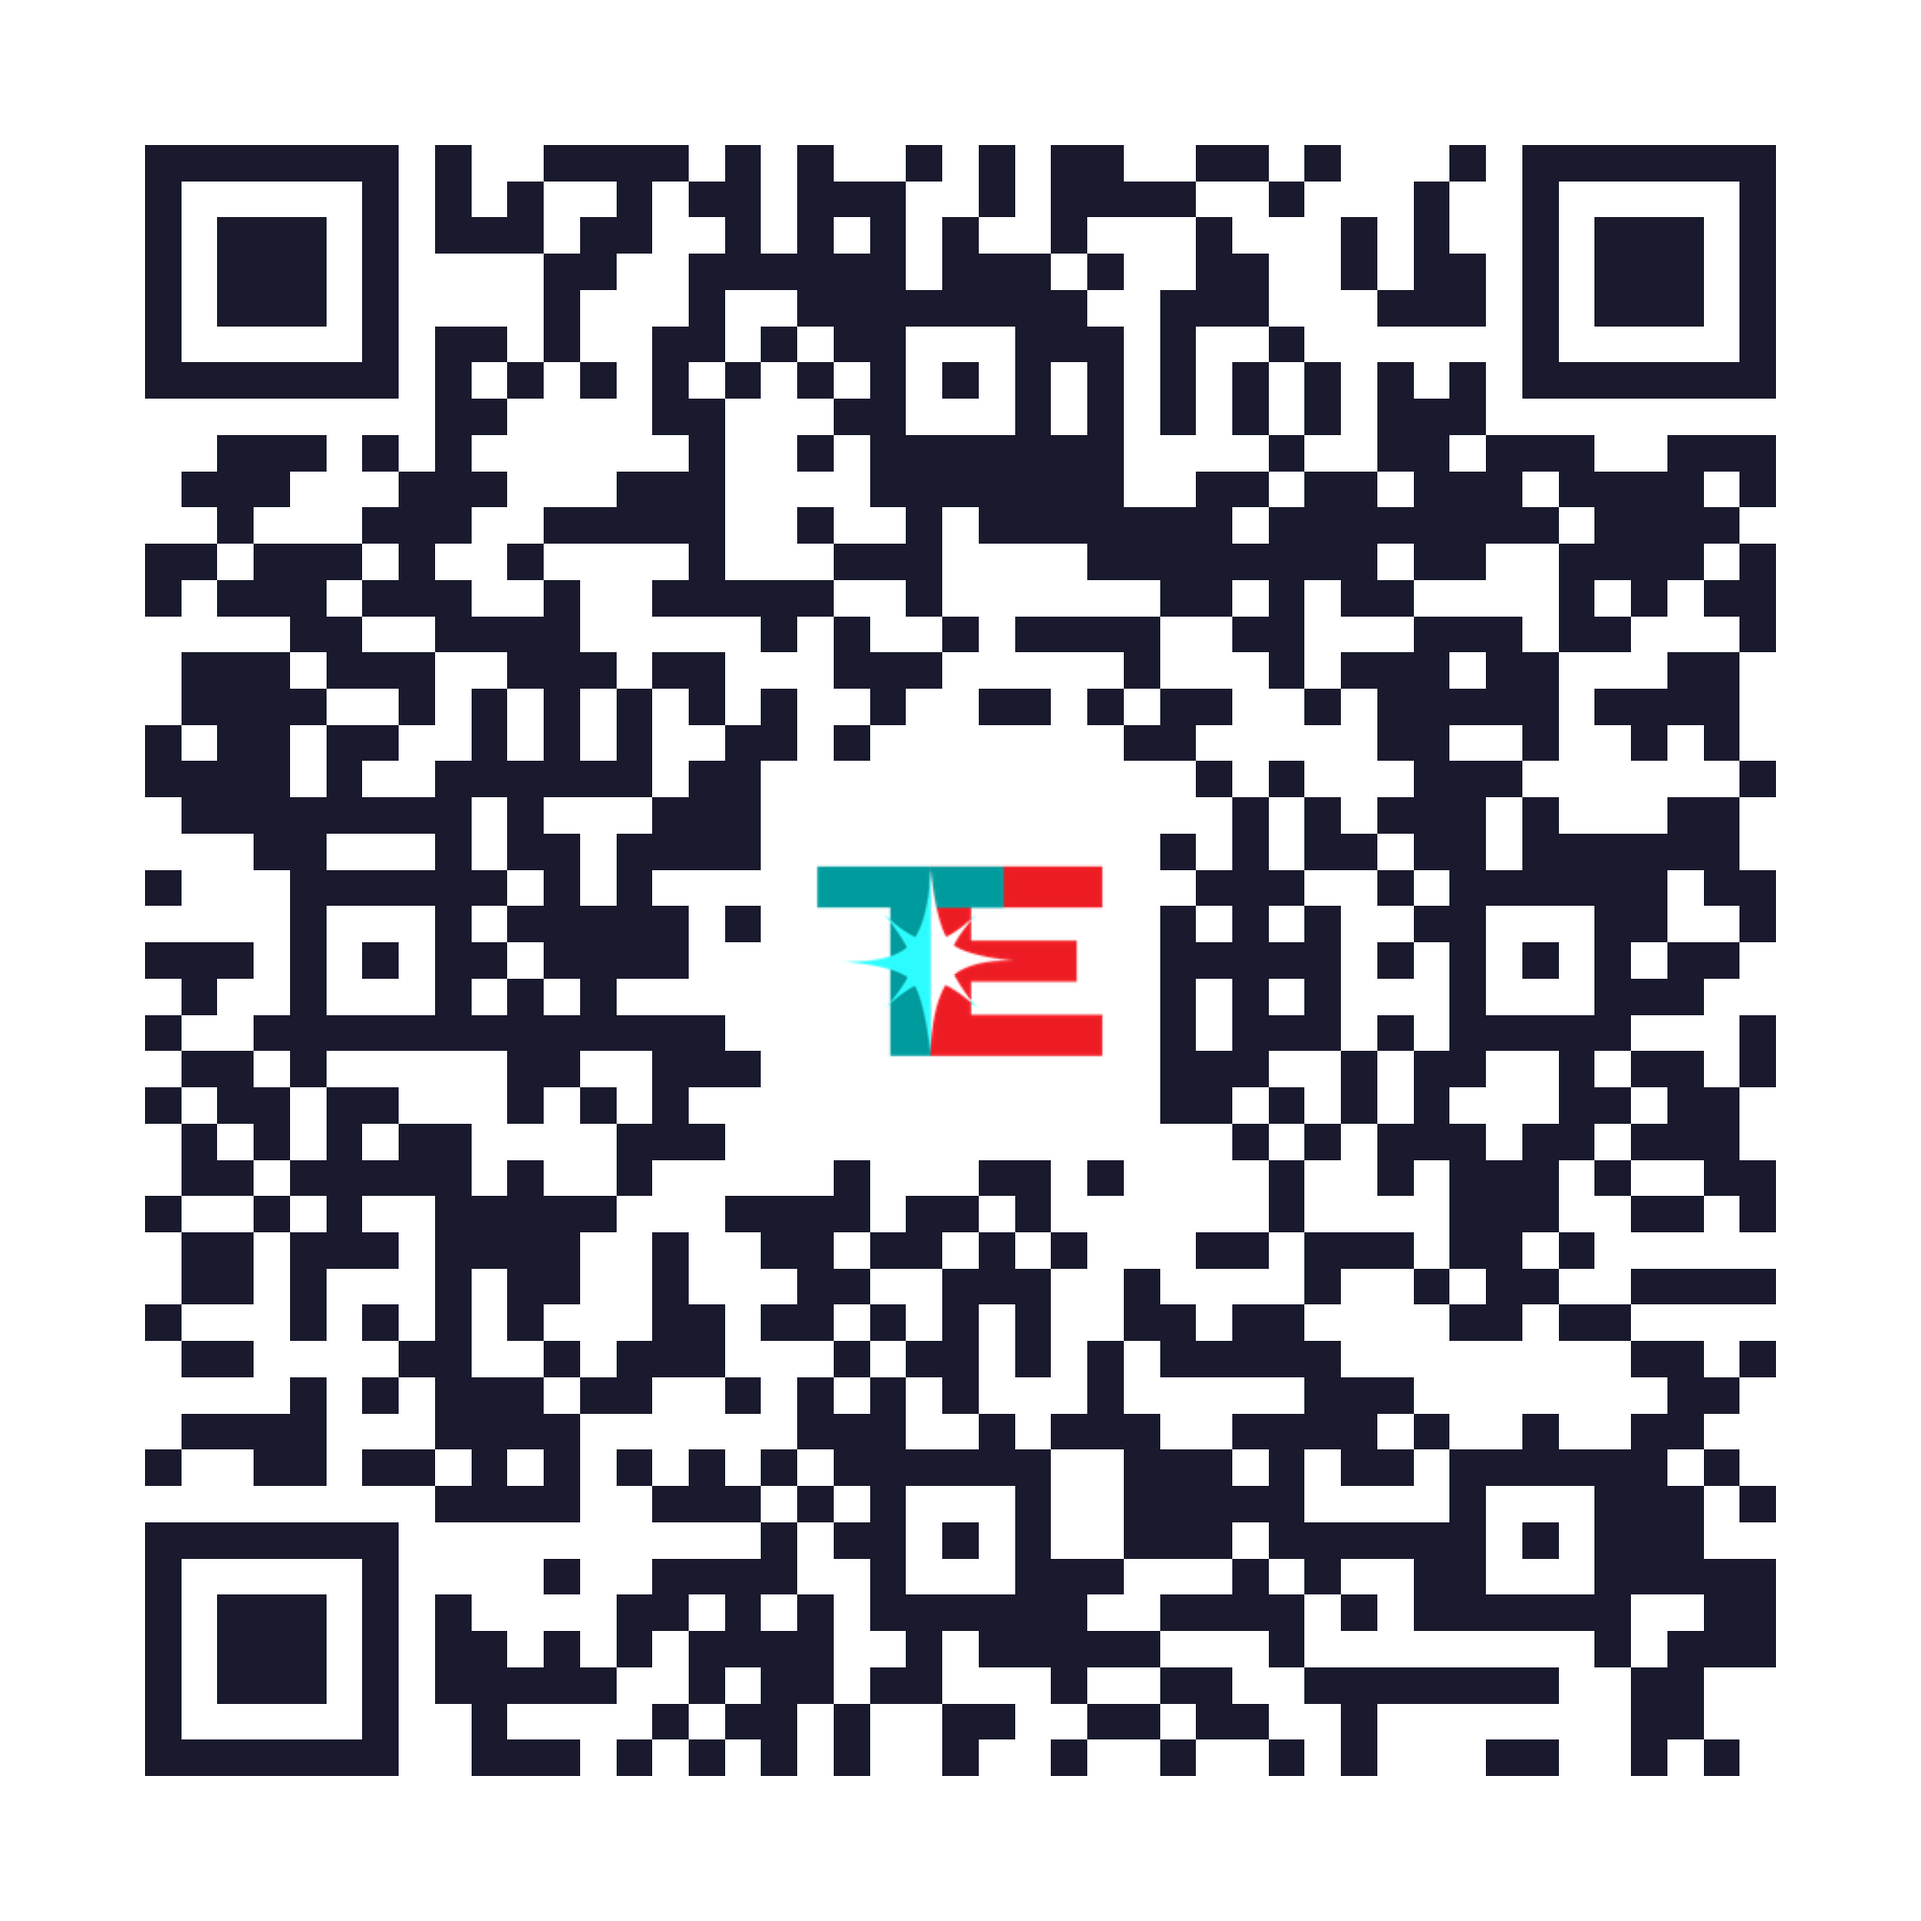
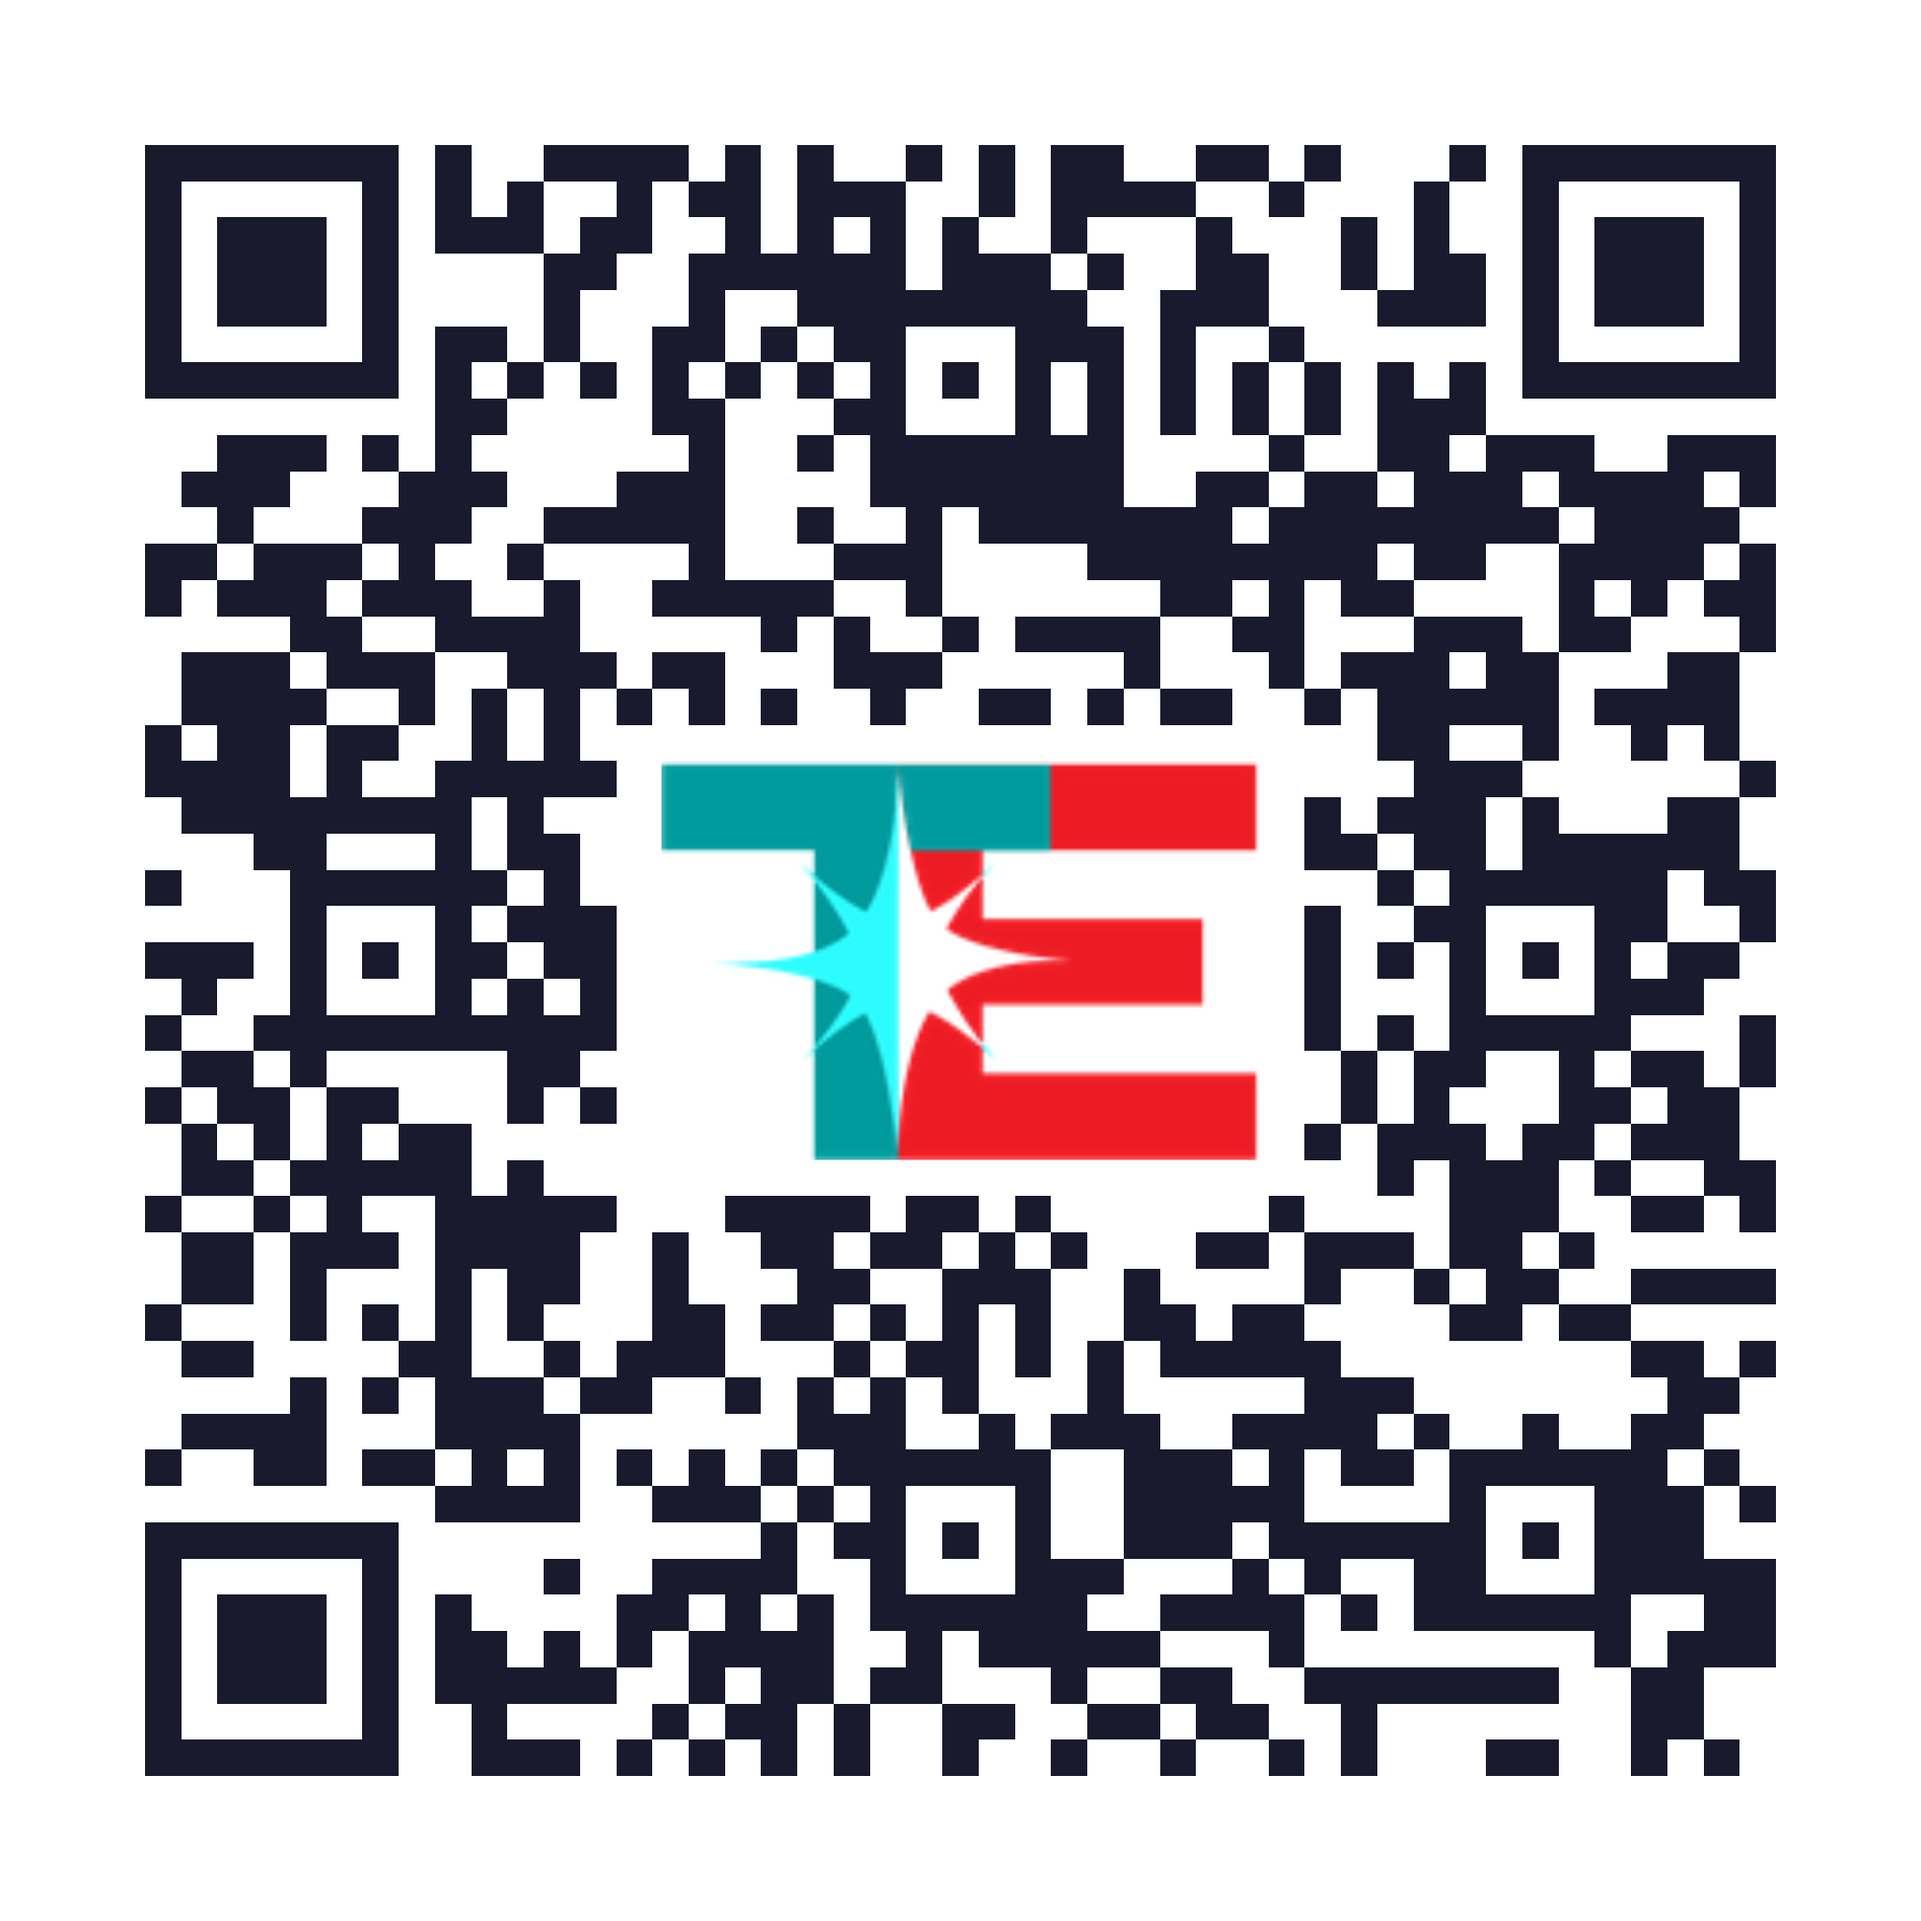
feat(qr): agrandir le monogramme et supprimer le blanc perdu
La plaque centrale était carrée sous un monogramme en 1,5:1. Le blanc
qui en résultait en haut et en bas recouvrait des modules sans rien
afficher : de la surface dépensée pour rien. La plaque épouse désormais
le format du logo, et la respiration passe d'environ 1,5 à 1 module.

Le logo passe de 7,9 à 16,5 modules de large, soit deux fois plus.

La taille retenue vient de la mesure, pas de l'estime. Un balayage de
0,24 à 0,52, chaque rendu étant redécodé à 150, 200, 300, 512 et
1024 px, situe le passage encore correct à 21,0 % de surface recouverte
et la rupture à 25,3 %. Ces chiffres valent en conditions idéales :
rendu parfait, sans grain, sans angle, sans pli. Un appareil photo sur
du papier imprimé en a bien moins, d'où le facteur deux conservé — la
plaque occupe 12,2 %.

Un premier balayage donnait tout en échec, y compris la configuration
déjà validée : c'était le harnais de test qui était faux, l'échappement
du heredoc ayant corrompu la substitution de taille du SVG. Le
dimensionnement passe désormais par le CSS, sans réécriture du SVG.

Le fichier retenu est redécodé sans erreur de 150 à 2000 px. Un test
refuse toute taille qui ne garderait pas le facteur deux sous 25,3 %, un
autre vérifie que la plaque ne laisse pas plus de blanc que la
respiration prévue.

Claude-Session: https://claude.ai/code/session_01Pwjz3VzeEknRuHTVSBE4Pa

Changed region(s): [[0.31, 0.372, 0.682, 0.62]]

diff --git a/README.md b/README.md
@@ -90,15 +90,22 @@ qr/
 « TE » au centre. Il se régénère par `npm run qr`.
 
 Le logo recouvre des modules du code : c'est la correction d'erreur qui absorbe
-la perte. Le niveau **H** en tolère environ 30 %, mais cette marge sert aussi
-aux salissures, aux plis et à l'éclairage d'un hall d'accueil — elle n'est donc
-pas dépensée pour le logo seul. La plaque centrale occupe **6,0 %** de la
-surface, plafonnée à 8 % par un test.
+la perte. La plaque centrale **épouse le format du monogramme** (1,5:1) au lieu
+d'être carrée — une plaque carrée laissait du blanc en haut et en bas, et ce
+blanc recouvrait des modules sans rien afficher.
 
-Le code a été décodé après rendu à 200, 300, 512, 1024 et 2000 px : l'URL
-ressort exacte dans les cinq cas. Un test compare en outre le fichier committé
-à ce que le script produit pour l'URL de production, afin que le SVG parti à
-l'impression ne puisse pas dériver silencieusement.
+La taille du logo est réglée par la mesure, pas à l'estime. En balayant les
+tailles et en redécodant chaque rendu, le code passe encore à **21,0 %** de
+surface recouverte et casse à **25,3 %**. Ces chiffres valent en conditions
+idéales : rendu parfait, sans grain, sans angle, sans pli. Un appareil photo
+sur du papier imprimé dispose de bien moins de marge, d'où le facteur deux
+conservé : la plaque occupe **12,2 %** de la surface, et un test refuse toute
+valeur qui ne garderait pas ce facteur deux.
+
+Le code a été décodé après rendu à 150, 200, 300, 512, 1024 et 2000 px :
+l'URL ressort exacte dans les six cas. Un test compare en outre le fichier
+committé à ce que le script produit pour l'URL de production, afin que le SVG
+parti à l'impression ne puisse pas dériver silencieusement.
 
 **Préférer le SVG pour l'impression** : le code reste vectoriel, donc net à
 toute taille. Le PNG est une rasterisation de dépannage.
